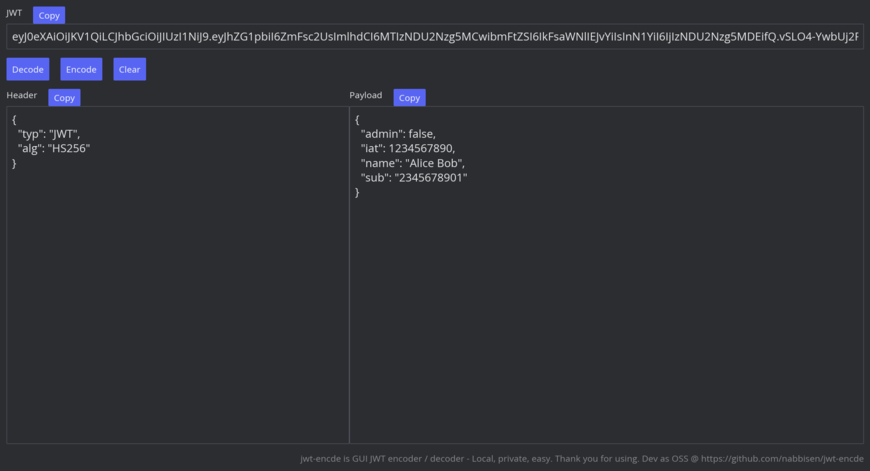
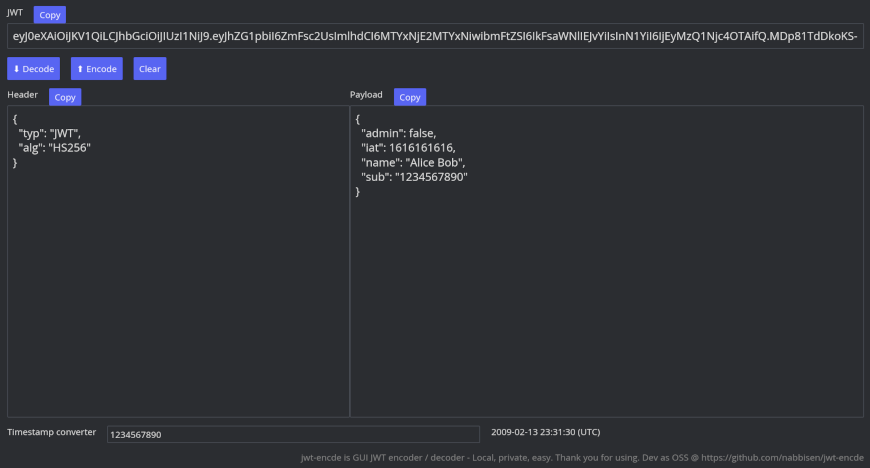
unix timestamp converter helper

diff --git a/src/app/window.rs b/src/app/window.rs
@@ -8,7 +8,9 @@ use iced::{
 use jsonwebtoken::Header;
 use serde_json::Value;
 
-use crate::app::jwt::{decode, encode};
+use crate::app::components::timestamp::{self, Timestamp};
+
+use super::util::jwt::{decode, encode};
 
 #[derive(Default)]
 pub struct Window {
@@ -18,6 +20,7 @@ pub struct Window {
     jwt_payload_json_str: text_editor::Content,
     jwt_payload: Option<Value>,
     ui_message: Option<String>,
+    timestamp: Timestamp,
 }
 
 #[derive(Debug, Clone)]
@@ -31,6 +34,7 @@ pub enum Message {
     Decode,
     Encode,
     Clear,
+    TimestampMessage(timestamp::Message),
 }
 
 impl Window {
@@ -44,8 +48,8 @@ impl Window {
         ]];
 
         let buttons = row![
-            button("Decode").on_press(Message::Decode).padding(10),
-            button("Encode").on_press(Message::Encode).padding(10),
+            button("⬇ Decode").on_press(Message::Decode).padding(10),
+            button("⬆ Encode").on_press(Message::Encode).padding(10),
             button("Clear").on_press(Message::Clear).padding(10),
         ]
         .spacing(20);
@@ -83,6 +87,12 @@ impl Window {
             .height(Fill),
         ];
 
+        let timestamp_helper = row![
+            self.timestamp
+                .view()
+                .map(move |msg| Message::TimestampMessage(msg))
+        ];
+
         let footer = row![text(
             "jwt-encde is GUI JWT encoder / decoder - Local, private, easy. Thank you for using. Dev as OSS @ https://github.com/nabbisen/jwt-encde"
         ).width(Fill).align_x(Right).color(iced::color!(0x878787))];
@@ -91,7 +101,7 @@ impl Window {
         if let Some(ui_message) = self.ui_message.clone() {
             content = content.push(Text::new(ui_message));
         }
-        for child in [encoded, buttons, decoded, footer] {
+        for child in [encoded, buttons, decoded, timestamp_helper, footer] {
             content = content.push(child);
         }
         content = content.spacing(15).padding(20).align_x(Alignment::Start);
@@ -190,6 +200,9 @@ impl Window {
                 };
             }
             Message::Clear => self.clear(),
+            Message::TimestampMessage(msg) => {
+                self.timestamp.update(msg);
+            }
         }
     }
 

diff --git a/src/app/components/timestamp.rs b/src/app/components/timestamp.rs
@@ -1,0 +1,68 @@
+use iced::{
+    Element,
+    Length::{Fill, FillPortion},
+    widget::{container, row, text, text_input},
+};
+
+#[derive(Default)]
+pub struct Timestamp {
+    pub unix: String,
+    pub timestamp: String,
+}
+
+#[derive(Debug, Clone)]
+pub enum Message {
+    Input(String),
+}
+
+impl Timestamp {
+    pub fn view(&self) -> Element<'_, Message> {
+        let content = row![
+            text("Timestamp converter"),
+            text_input("Unix timestamp here...", &self.unix)
+                .on_input(Message::Input)
+                .width(FillPortion(1)),
+            text(self.timestamp.as_str()).width(FillPortion(1))
+        ]
+        .width(Fill)
+        .spacing(20);
+
+        container(content).width(Fill).into()
+    }
+
+    pub fn update(&mut self, message: Message) {
+        match message {
+            Message::Input(s) => {
+                let filtered = filter_i64_string(s.as_str());
+                self.unix = if filtered != s.as_str() { filtered } else { s };
+
+                if self.unix.is_empty() {
+                    return;
+                }
+
+                self.timestamp = if let Some(dt) = chrono::DateTime::<chrono::Utc>::from_timestamp(
+                    self.unix.parse::<i64>().unwrap(),
+                    0,
+                ) {
+                    dt.format("%Y-%m-%d %H:%M:%S (UTC)").to_string()
+                } else {
+                    String::default()
+                };
+            }
+        }
+    }
+}
+
+fn filter_i64_string(input: &str) -> String {
+    let mut result = String::new();
+
+    for (i, c) in input.chars().enumerate() {
+        if c.is_ascii_digit() {
+            result.push(c);
+        } else if c == '-' && i == 0 {
+            result.push(c);
+        }
+    }
+
+    result
+}

diff --git a/src/app.rs b/src/app.rs
@@ -1,4 +1,5 @@
-mod jwt;
+mod components;
+mod util;
 mod window;
 
 pub fn start() -> std::result::Result<(), iced::Error> {

diff --git a/src/app/components.rs b/src/app/components.rs
@@ -1,0 +1,1 @@
+pub mod timestamp;

diff --git a/src/app/util.rs b/src/app/util.rs
@@ -1,0 +1,1 @@
+pub mod jwt;
